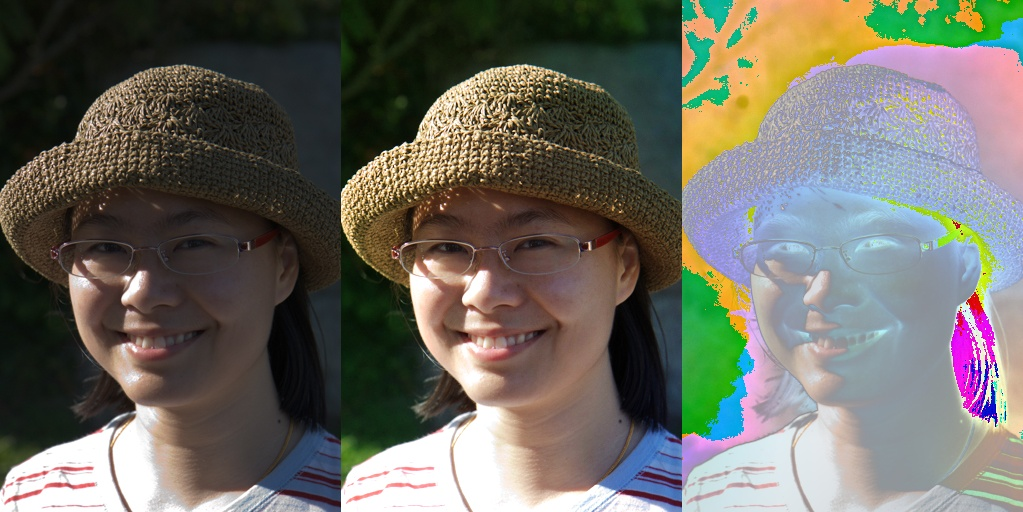
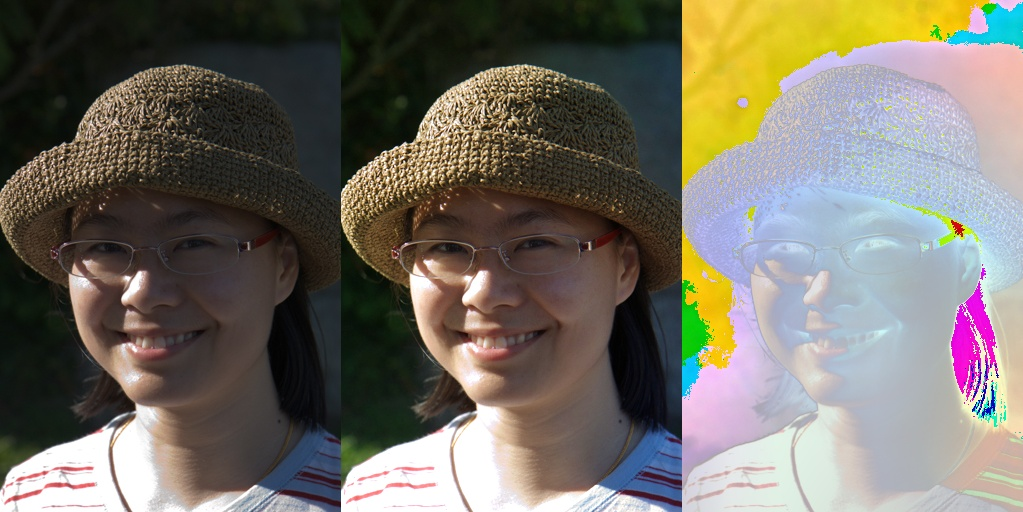
纠正了 torch_1.7.0 的问题

Changed region(s): [[0.3939, 0.0, 1.0, 1.0], [0.3333, 0.125, 0.5758, 0.5], [0.3939, 0.5, 0.4242, 0.5312]]

diff --git a/inference.py b/inference.py
@@ -11,7 +11,6 @@ import numpy
 import dill as pickle
 # torch
 import torch
-from torchvision import transforms
 from torch.utils.data import Dataset
 from torch.utils.data import DataLoader
 # self
@@ -38,8 +37,9 @@ opt.low_size = 256
 opt.full_size = 512
 opt.use_cuda = True
 opt.eps_value = 1e-4
-opt.save_extra = True
-opt.images_dir = "./sample_imgs"
+opt.save_extra = False
+# opt.images_dir = "./sample_imgs"
+opt.images_dir = "./high_resolution/input"
 opt.result_dir = './sample_results'
 opt.checkpoints_file = './checkpoints/simple_batch_16/epoch_48_psnr_23.677.pth'
 for l, r in vars(opt).items(): print(l, " : ", r)

diff --git a/README.md b/README.md
@@ -38,7 +38,7 @@ conda install cudatoolkit=9.0 cudnn=7.6.5
 pip install -r requirements.txt 
 ```
 
-**环境建议用 torch==1.1.0！！！用其它的 torch 1.7.1 效果会更差，原因暂且不明**
+**环境建议用 torch==1.1.0！！！用其它的 torch 1.7.1 效果会更差，原因暂且不明，后面会有效果演示**
 
 
 
@@ -99,9 +99,9 @@ opt.checkpoints_file = './checkpoints/simple_batch_16/epoch_48_psnr_23.677.pth'
 
 细节展示, 用高分辨率的图像
 
-![image-20210610160616339](image_for_md/image-20210610160616339.png)
+![image-20210610165422914](image_for_markdown/image-20210610165422914.png)
 
-如上，处理高分辨率图像（分辨率2000x3008，以上图举例），求光照图时，先求得 256x256 大小的系数，然后联合双边网格上采样到 2000x3008。得到的结果显而易见，图像四周边缘区采样效果不好，但图像中间部分和整体地曝光还是恢复地不错。而且观察细节部分，没有明显地模糊或者人工痕迹，还是能接受的。
+如上，处理高分辨率图像（分辨率2000x3008，以上图举例），求光照图时，先求得 256x256 大小的系数，然后联合双边网格上采样到 2000x3008。得到的结果显而易见，整体的曝光还是恢复地不错。而且观察细节部分，没有明显地模糊或者人工痕迹，还是能接受的。
 
 
 
